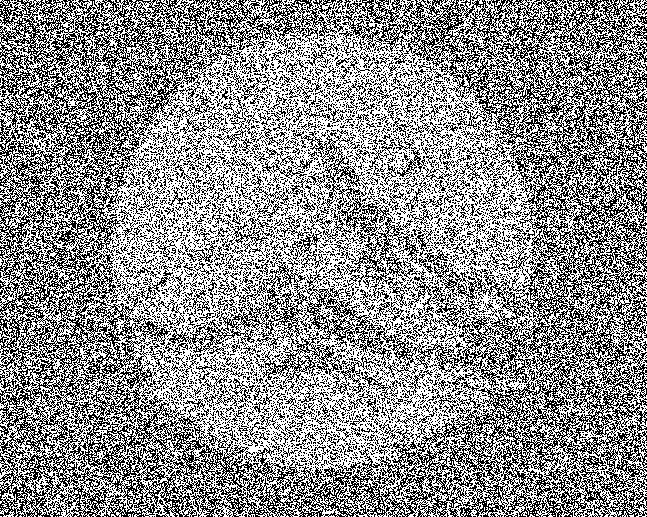
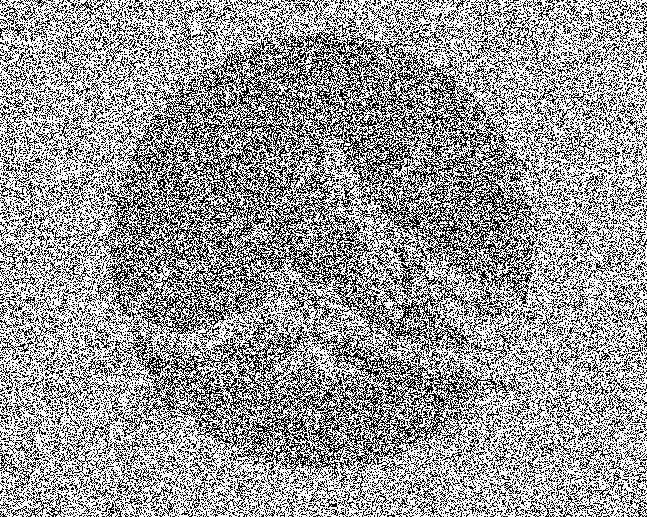
Use of half and half black and white pattern
I obtained more ambiguous margins by using a random pattern with a ratio of 50% white and 50% black pixels.

diff --git a/main.py b/main.py
@@ -10,9 +10,9 @@ def create_shares_3_3(img_binary):
         for j in range(w):
             pixel = img_binary[i, j]
             if pixel == 0:  # Siyah piksel (gizli)
-                pattern = random.choice([[0, 1, 1], [1, 0, 1], [1, 1, 0]])
+                pattern = [random.randint(0, 1) for _ in range(3)]  # Siyah için tam rastgele
             else:  # Beyaz piksel (gizli değil)
-                pattern = [random.randint(0, 1) for _ in range(3)]  # Beyaz için rastgele deseni daha karışık yap
+                pattern = random.sample([0, 1, 1], 3)  # Beyaz için %50 siyah, %50 beyaz deseni
 
             for k in range(3):
                 shares[k][i, j] = pattern[k] * 255
